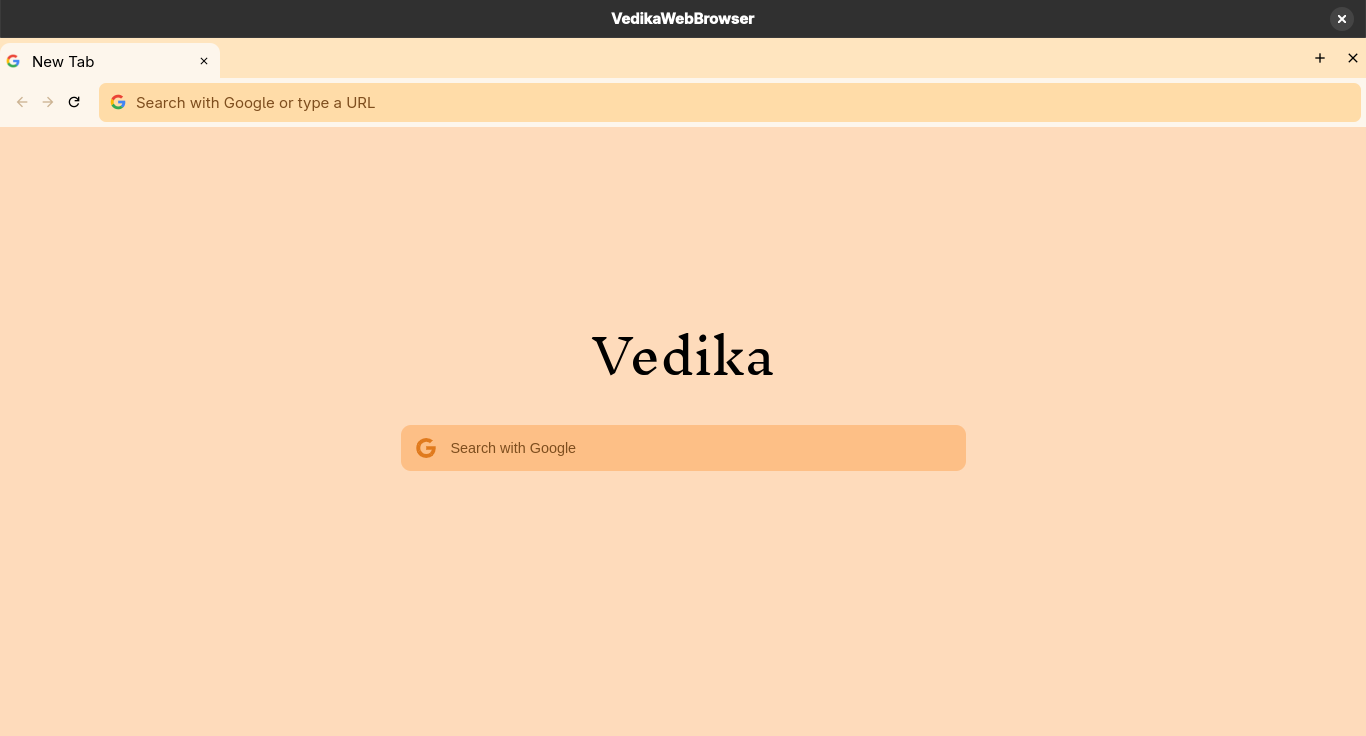
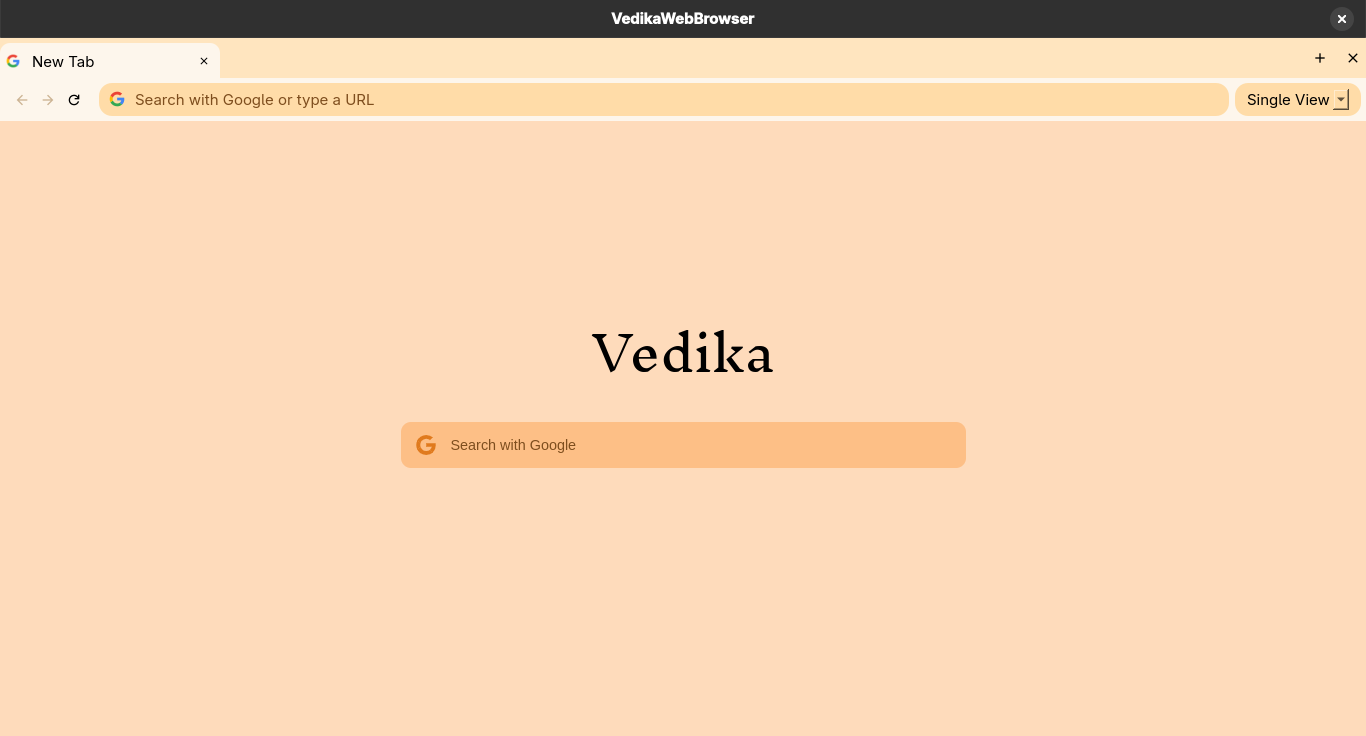
Update README.md

Changed region(s): [[0.0, 0.0938, 1.0, 0.1875], [0.3075, 0.5625, 0.7072, 0.6562], [0.4305, 0.4375, 0.5842, 0.5312]]

diff --git a/lib/ui/WebAreaLayoutWidget/WebAreaLayoutManager/TabSelectionDialog/tabselectiondialog.cpp b/lib/ui/WebAreaLayoutWidget/WebAreaLayoutManager/TabSelectionDialog/tabselectiondialog.cpp
@@ -24,7 +24,7 @@ TabSelectionDialog::TabSelectionDialog(QWidget *parent, const QVector<QPointer<W
         // Q_ASSERT(view);
         qDebug() << i  << view << view->parent();
 
-        QCheckBox *check = new QCheckBox(view->getTitle(, gridContainer);
+        QCheckBox *check = new QCheckBox(view->getTitle(), gridContainer);
 
         gridLayout->addWidget(check, i / 3, i % 3);
         i++;

diff --git a/README.md b/README.md
@@ -8,7 +8,9 @@ Built using the Qt framework for the GUI and Qt WebEngine for rendering web cont
 
 ![Home Screen](lib/resources/screenshots/1.png)
 
-![Web View](lib/resources/screenshots/2.png)
+![Split View](lib/resources/screenshots/2.png)
+
+![Split View](lib/resources/screenshots/3.png)
 
 ## Contributing
 
